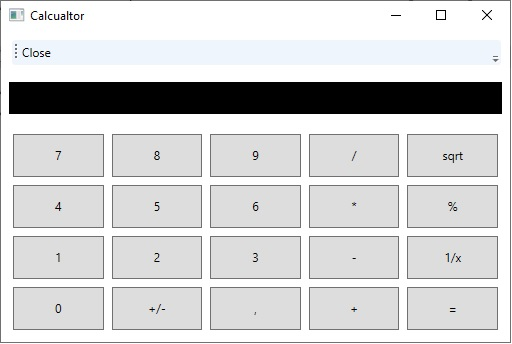
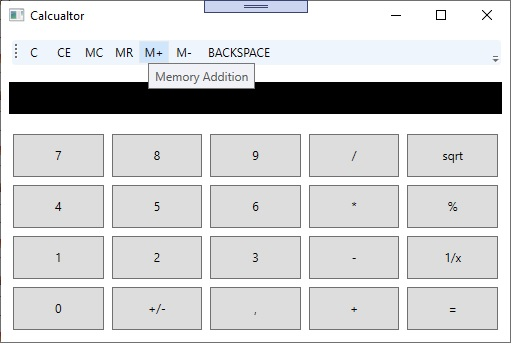
Add memory management buttons

Changed region(s): [[0.0312, 0.1163, 0.5312, 0.2616], [0.375, 0.0, 0.625, 0.0581]]

diff --git a/src/UI/calc.UI.Toolbar/Views/ToolbarView.xaml b/src/UI/calc.UI.Toolbar/Views/ToolbarView.xaml
@@ -3,7 +3,39 @@
     xmlns:x="http://schemas.microsoft.com/winfx/2006/xaml"
     xmlns:prism="http://prismlibrary.com/"
     prism:ViewModelLocator.AutoWireViewModel="True">
+
     <ToolBar>
-        <Button>Close</Button>
+        <Button
+            Width="30"
+            ToolTip="Clear (alles löschen) ">
+            C
+        </Button>
+        <Button
+            Width="30"
+            ToolTip=" Clear Entry (nur letzte Eingabe löschen)">
+            CE
+        </Button>
+        <Button
+            Width="30"
+            ToolTip="Memory Clear (Speicher löschen)">
+            MC
+        </Button>
+        <Button
+            Width="30"
+            ToolTip="Memory Recall (gespeicherten Wert abrufen) ">
+            MR
+        </Button>
+        <Button
+            Width="30"
+            ToolTip="Memory Addition">
+            M+
+        </Button>
+        <Button
+            Width="30"
+            ToolTip="Memory Subtraktion">
+            M-
+        </Button>
+        <Button Width="80">BACKSPACE</Button>
     </ToolBar>
 </UserControl>
+<!--  C, CE, MC, MR, MS, M+, BACKSPACE  -->

diff --git a/src/Common/calc.Common.Services/CalcCoreService.cs b/src/Common/calc.Common.Services/CalcCoreService.cs
@@ -66,26 +66,15 @@ namespace calc.Common.Services
         }
 
         static string[] operators = { "+", "-", "*", "/" };
-        static Func<decimal, decimal, decimal>[] calcOps = { Add, Sub, Mul, Div };
 
-        static decimal Add(decimal x, decimal y)
-        {
-            return (x + y);
-        }
-
-        static decimal Sub(decimal x, decimal y)
-        {
-            return (x - y); 
-        }
-
-        static decimal Mul(decimal x, decimal y)
-        {
-            return (x * y);
-        }
-
-        static decimal Div(decimal x, decimal y)
-        {
-            return (x / y);
-        }
+        // take care - it is an array of func
+        // lambdas must be in the same order as operators array 
+        static Func<decimal, decimal, decimal>[] calcOps = 
+        { 
+            (x,y) => (x + y),
+            (x,y) => (x - y),
+            (x,y) => (x * y),
+            (x,y) => (x / y)
+        };
     }
 }
